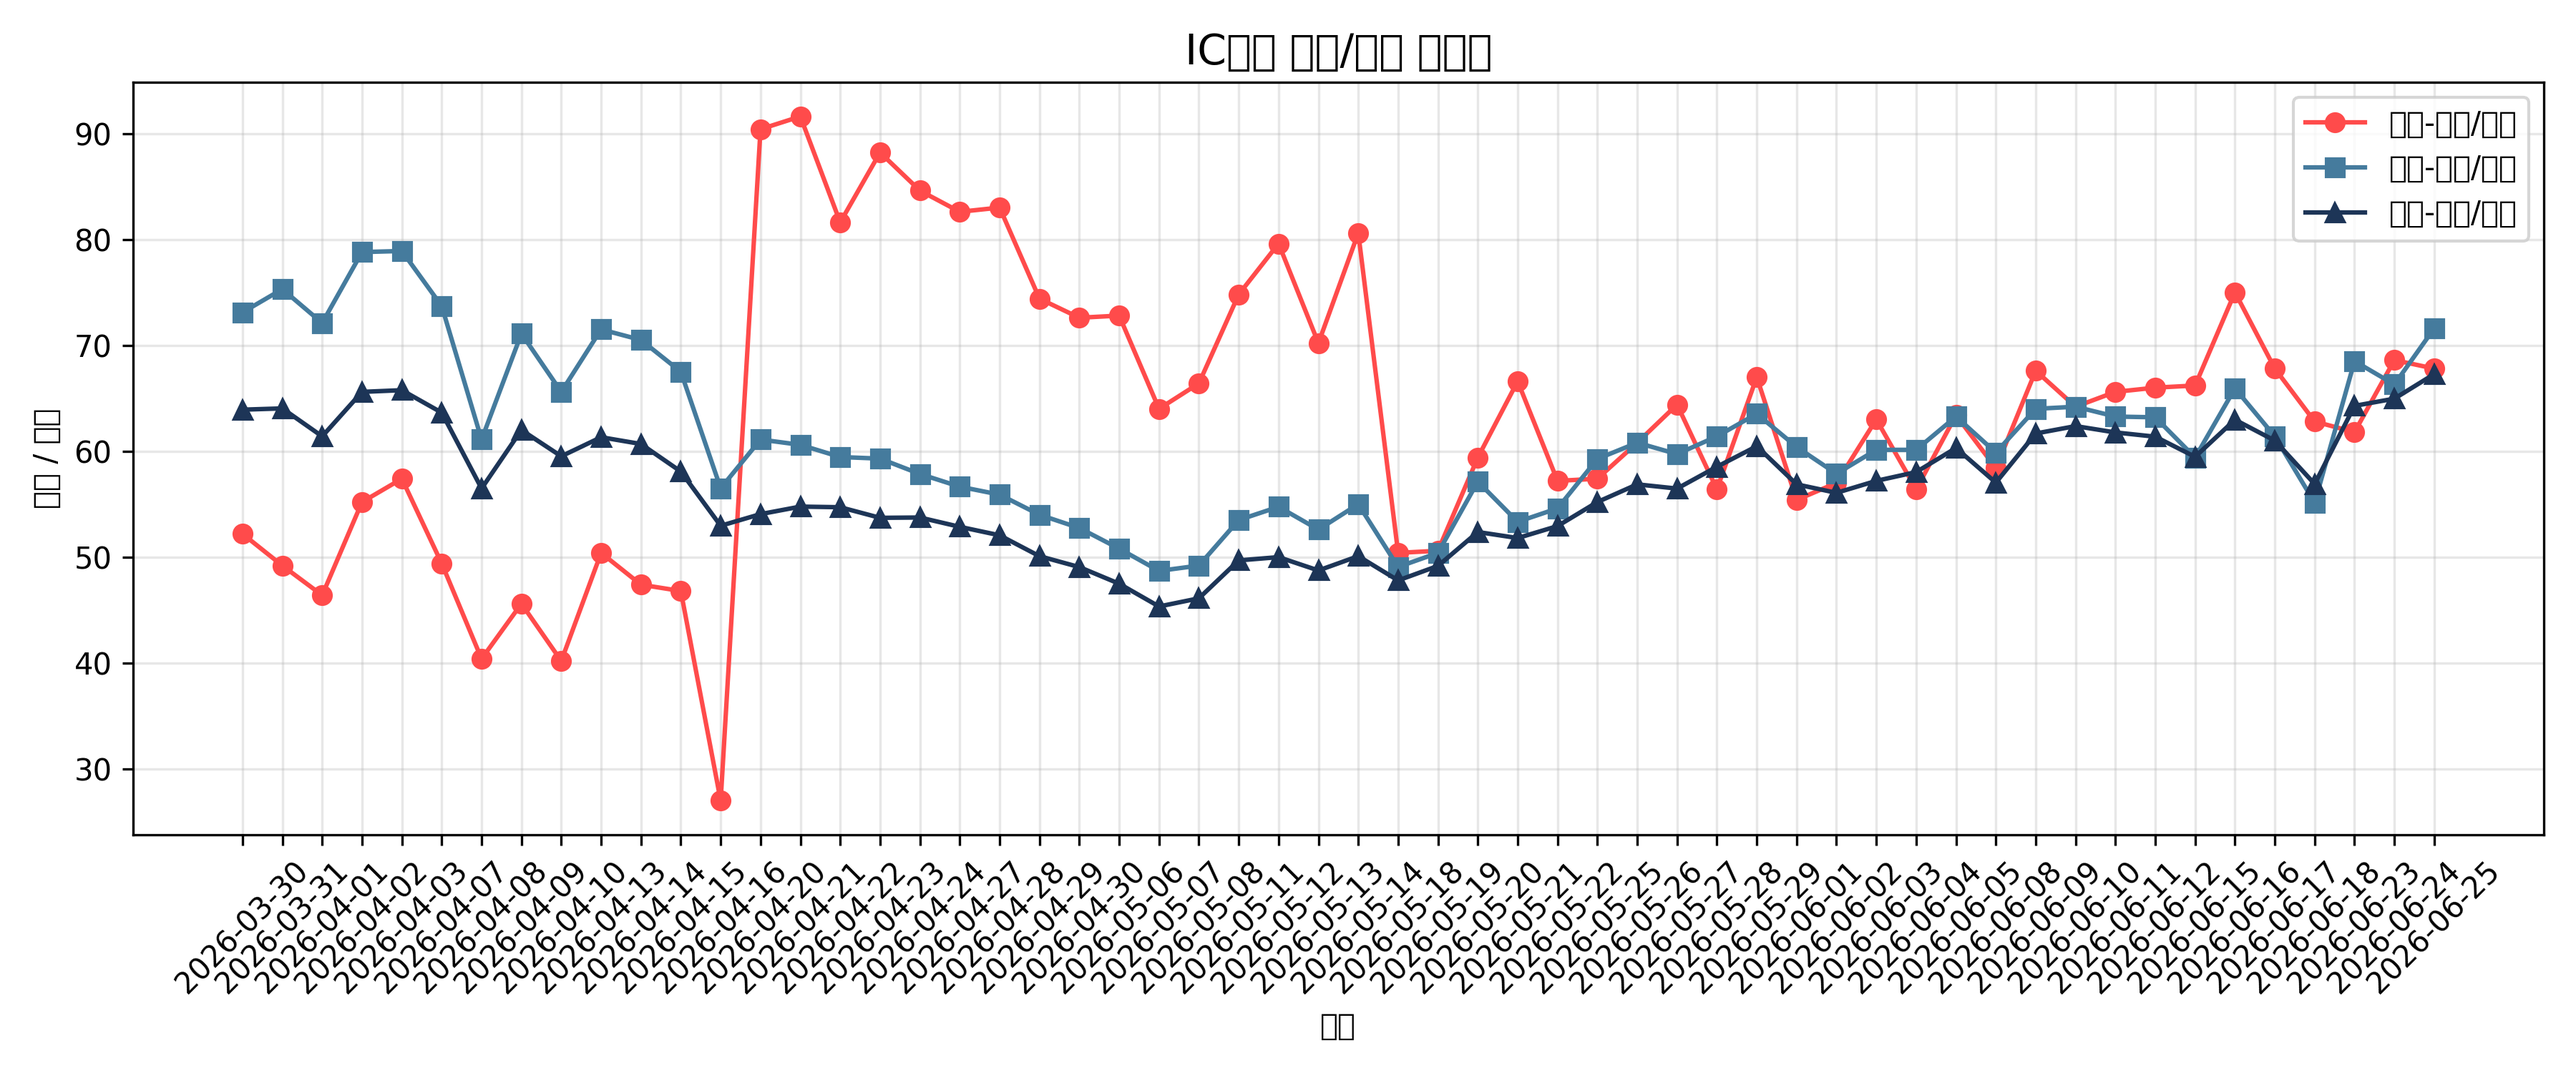
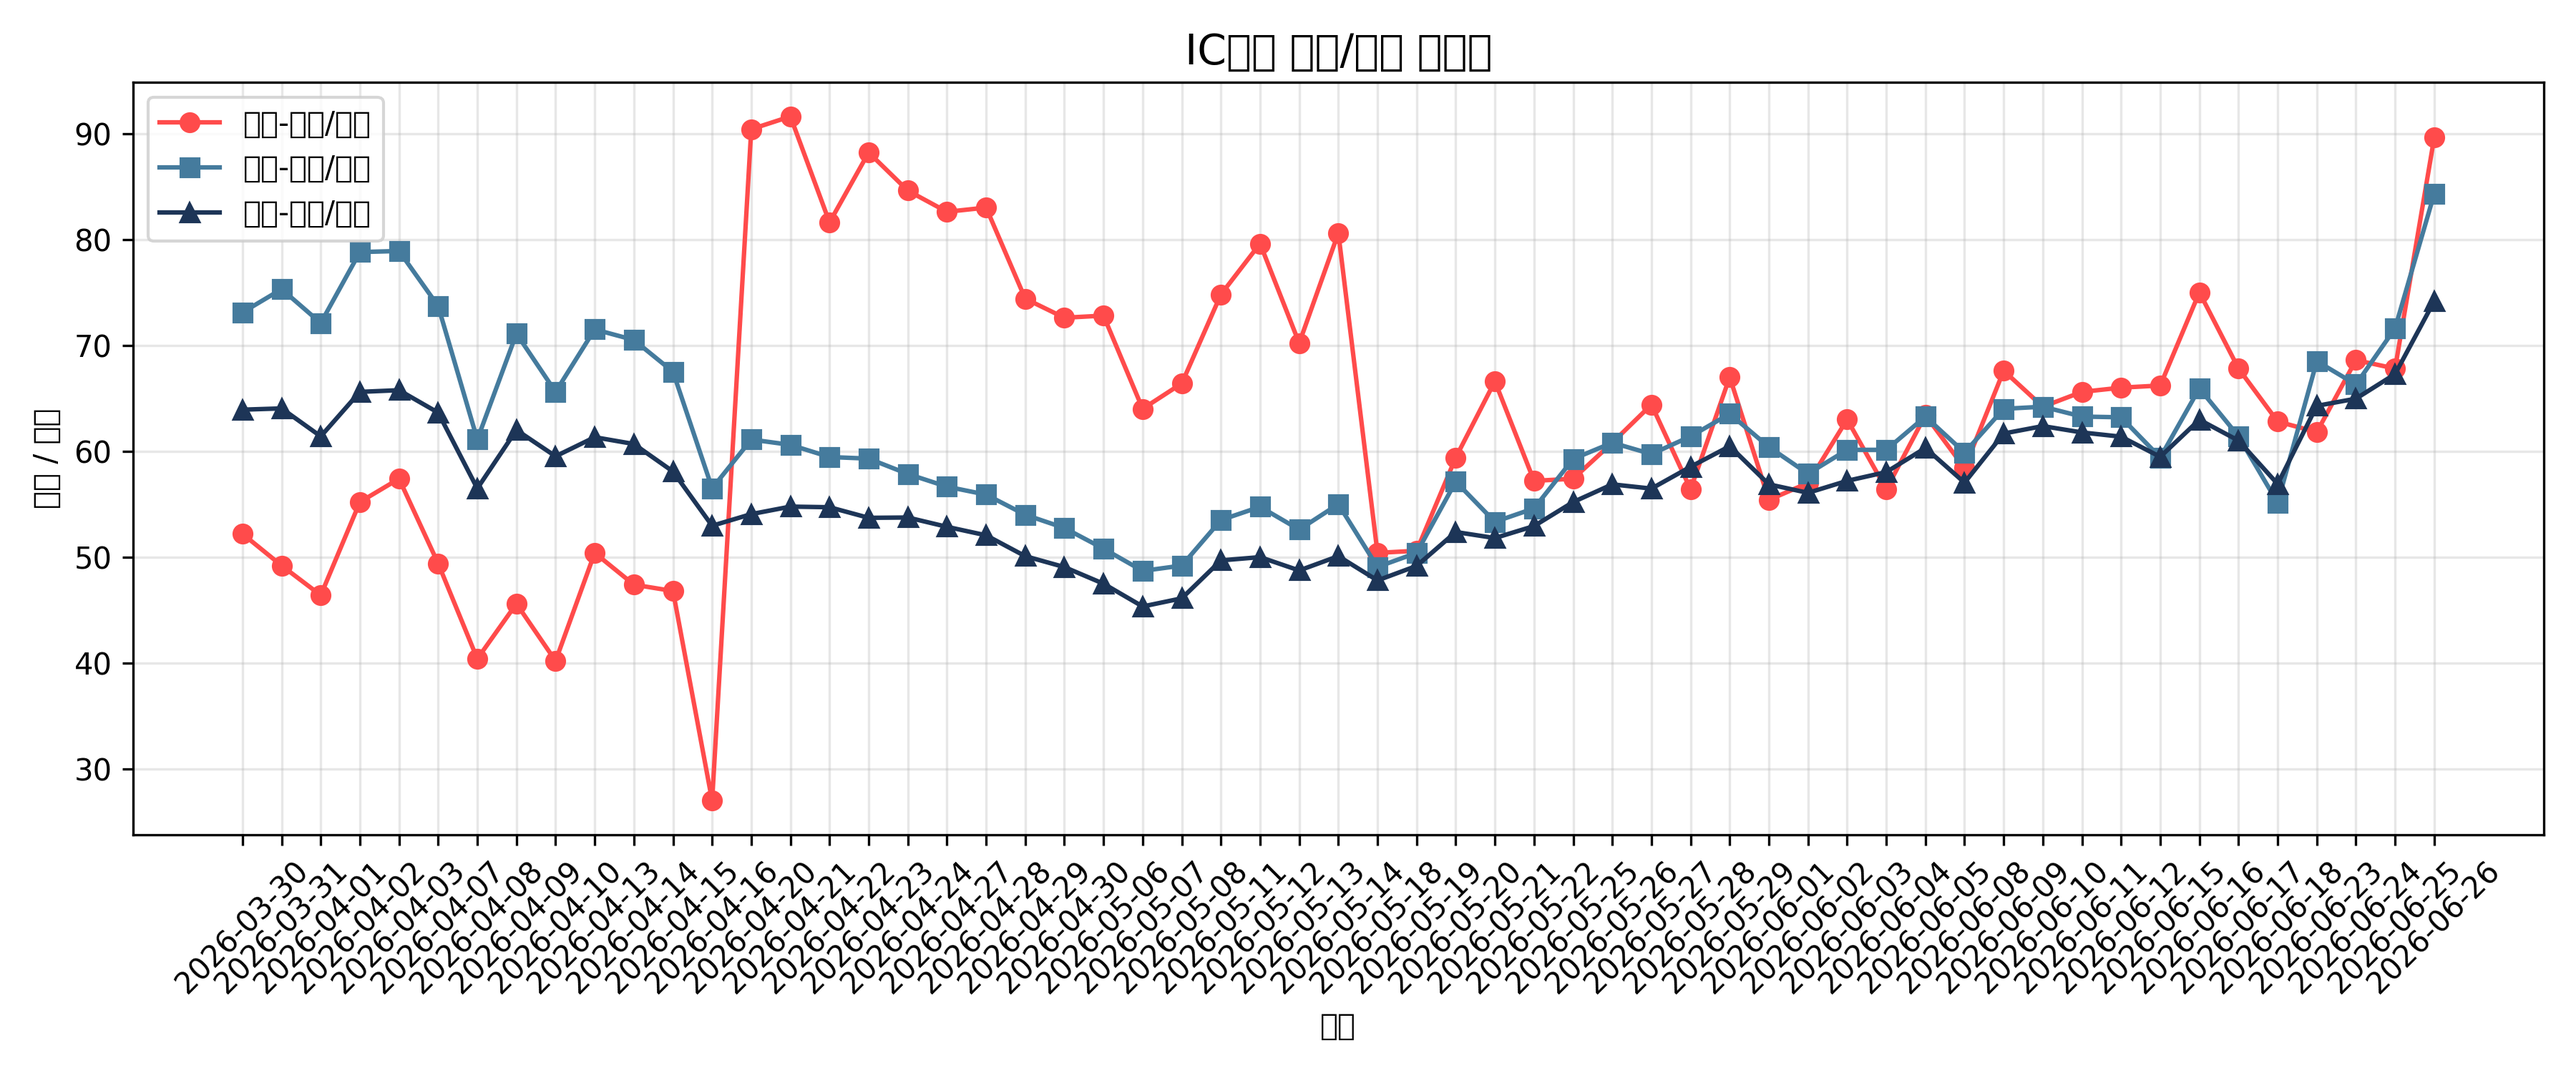
deploy: 4d1bb30b7b0bf8623cc214497fc979b4192c654b

diff --git a/index.html b/index.html
@@ -84,19 +84,19 @@
 <body>
     <div class="container">
         <h1>IC期货基差监控</h1>
-        <div class="last-updated">最后更新：2026-06-25 19:21:45</div>
+        <div class="last-updated">最后更新：2026-06-26 19:30:58</div>
         
         <div class="stats">
             <div class="stat-card">
-                <div class="stat-value">67.8</div>
+                <div class="stat-value">89.6</div>
                 <div class="stat-label">当月-下月/月差</div>
             </div>
             <div class="stat-card">
-                <div class="stat-value">71.6</div>
+                <div class="stat-value">84.3</div>
                 <div class="stat-label">当月-当季/月差</div>
             </div>
             <div class="stat-card">
-                <div class="stat-value">67.28</div>
+                <div class="stat-value">74.16</div>
                 <div class="stat-label">当月-下季/月差</div>
             </div>
         </div>
@@ -114,14 +114,6 @@
                 <th>当月-下月/月差</th>
                 <th>当月-当季/月差</th>
                 <th>当月-下季/月差</th>
-            </tr>
-
-            <tr>
-                <td>2026-06-15</td>
-                <td>IC2606</td>
-                <td>66.2</td>
-                <td>59.4</td>
-                <td>59.47</td>
             </tr>
 
             <tr>
@@ -170,6 +162,14 @@
                 <td>67.8</td>
                 <td>71.6</td>
                 <td>67.28</td>
+            </tr>
+
+            <tr>
+                <td>2026-06-26</td>
+                <td>IC2607</td>
+                <td>89.6</td>
+                <td>84.3</td>
+                <td>74.16</td>
             </tr>
 
         </table>
